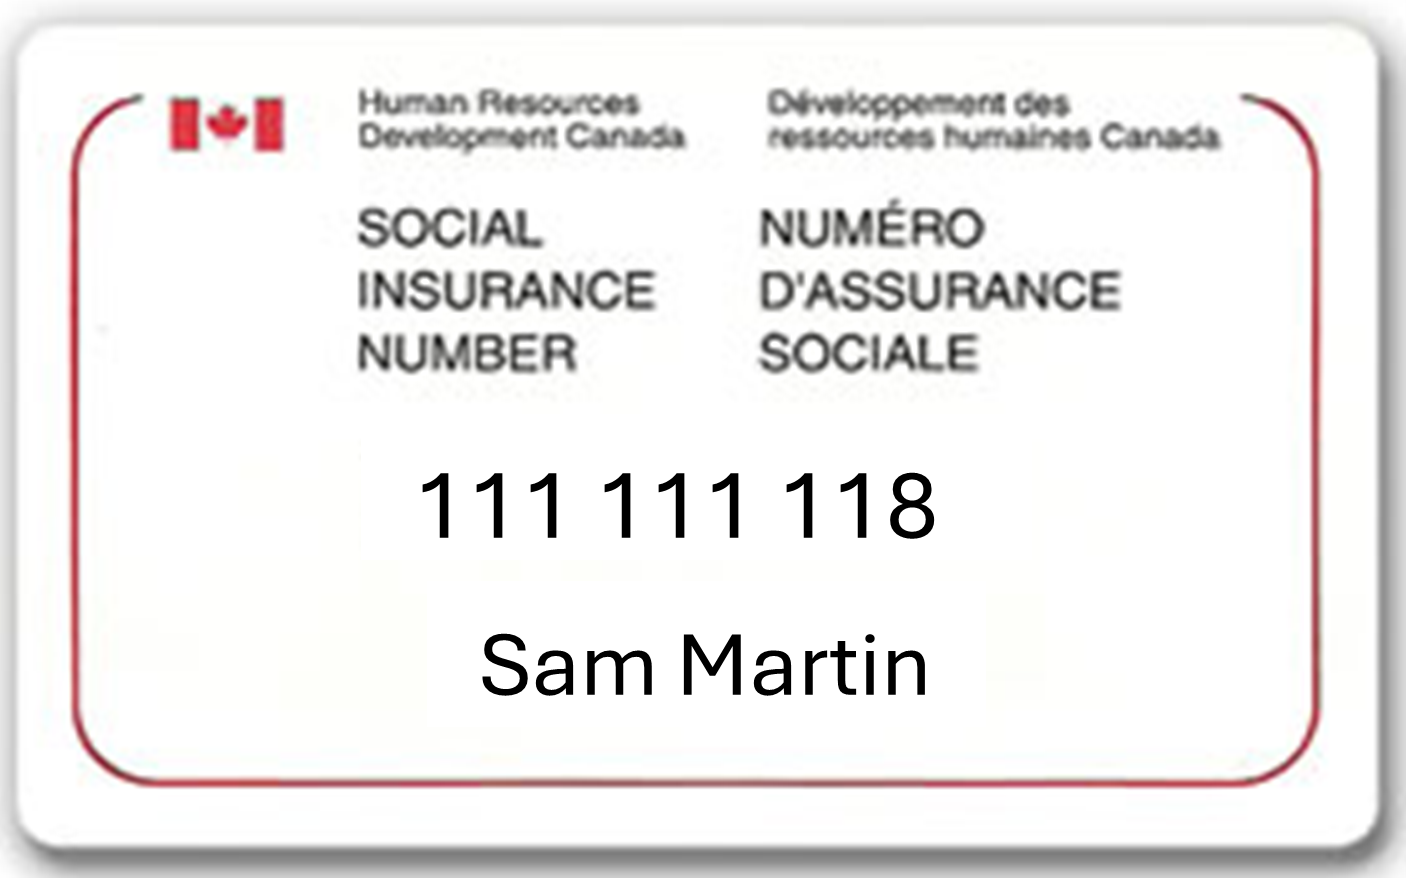
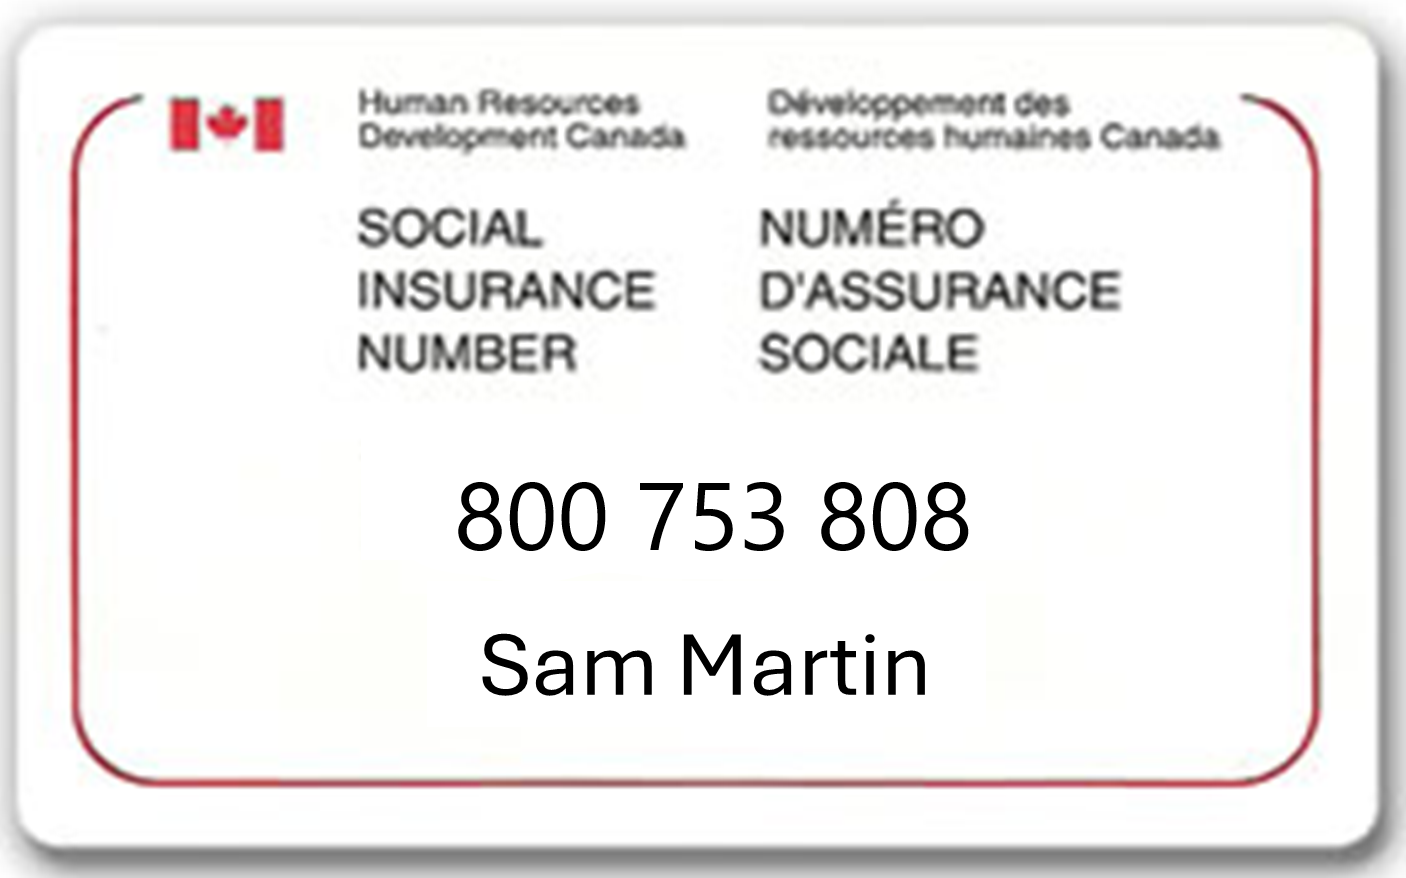
tweaks

Changed region(s): [[0.3058, 0.5228, 0.7034, 0.6458]]

diff --git a/CXO/online_standard/EN_info.html b/CXO/online_standard/EN_info.html
@@ -147,13 +147,12 @@
 <ul><li>You are applying for this benefit as Sam Martin.</li></ul>
 
 <h2>Direct Deposit:</h2>
-<ul><li>You prefer to use direct deposit and <strong>do not</strong> want to use the same banking information that you have with the Canada Revenue Agency</li>
-<li>Instead, you want the money to go into the following bank account by direct deposit:</li></ul>
+<ul><li>Direct Deposit Information:</li>
 
   <img src="Void_Cheque.png" alt="A picture of a void cheque. The transit number is 1 2 3 4 5. The institution number is 1 2 3. The account number is 1 2 3 4 5 6 7" width="70%">
 <br>
 <h2>Mailing Address:</h2>
-<ul><li>You will be using the address written in your Service Canada letter.</li></ul>
+<ul><li>You will be using your own mailing address.</li></ul>
 <br>
 <h2>Various ID cards:</h2>
        <!-- CONTENT ENDS HERE -->
@@ -162,7 +161,7 @@
 
        <br>
 
-       <img src="SIN_EN.png" alt="A picture of a Social Insurance Number card. The name on the card is Sam Martin. The number on the card is 1 1 1 1 1 1 1 1 8" width="70%">
+       <img src="SIN_EN.png" alt="A picture of a Social Insurance Number card. The name on the card is Sam Martin. The number on the card is 8 0 0 7 5 3 8 0 8" width="70%">
 
        <br>
 
